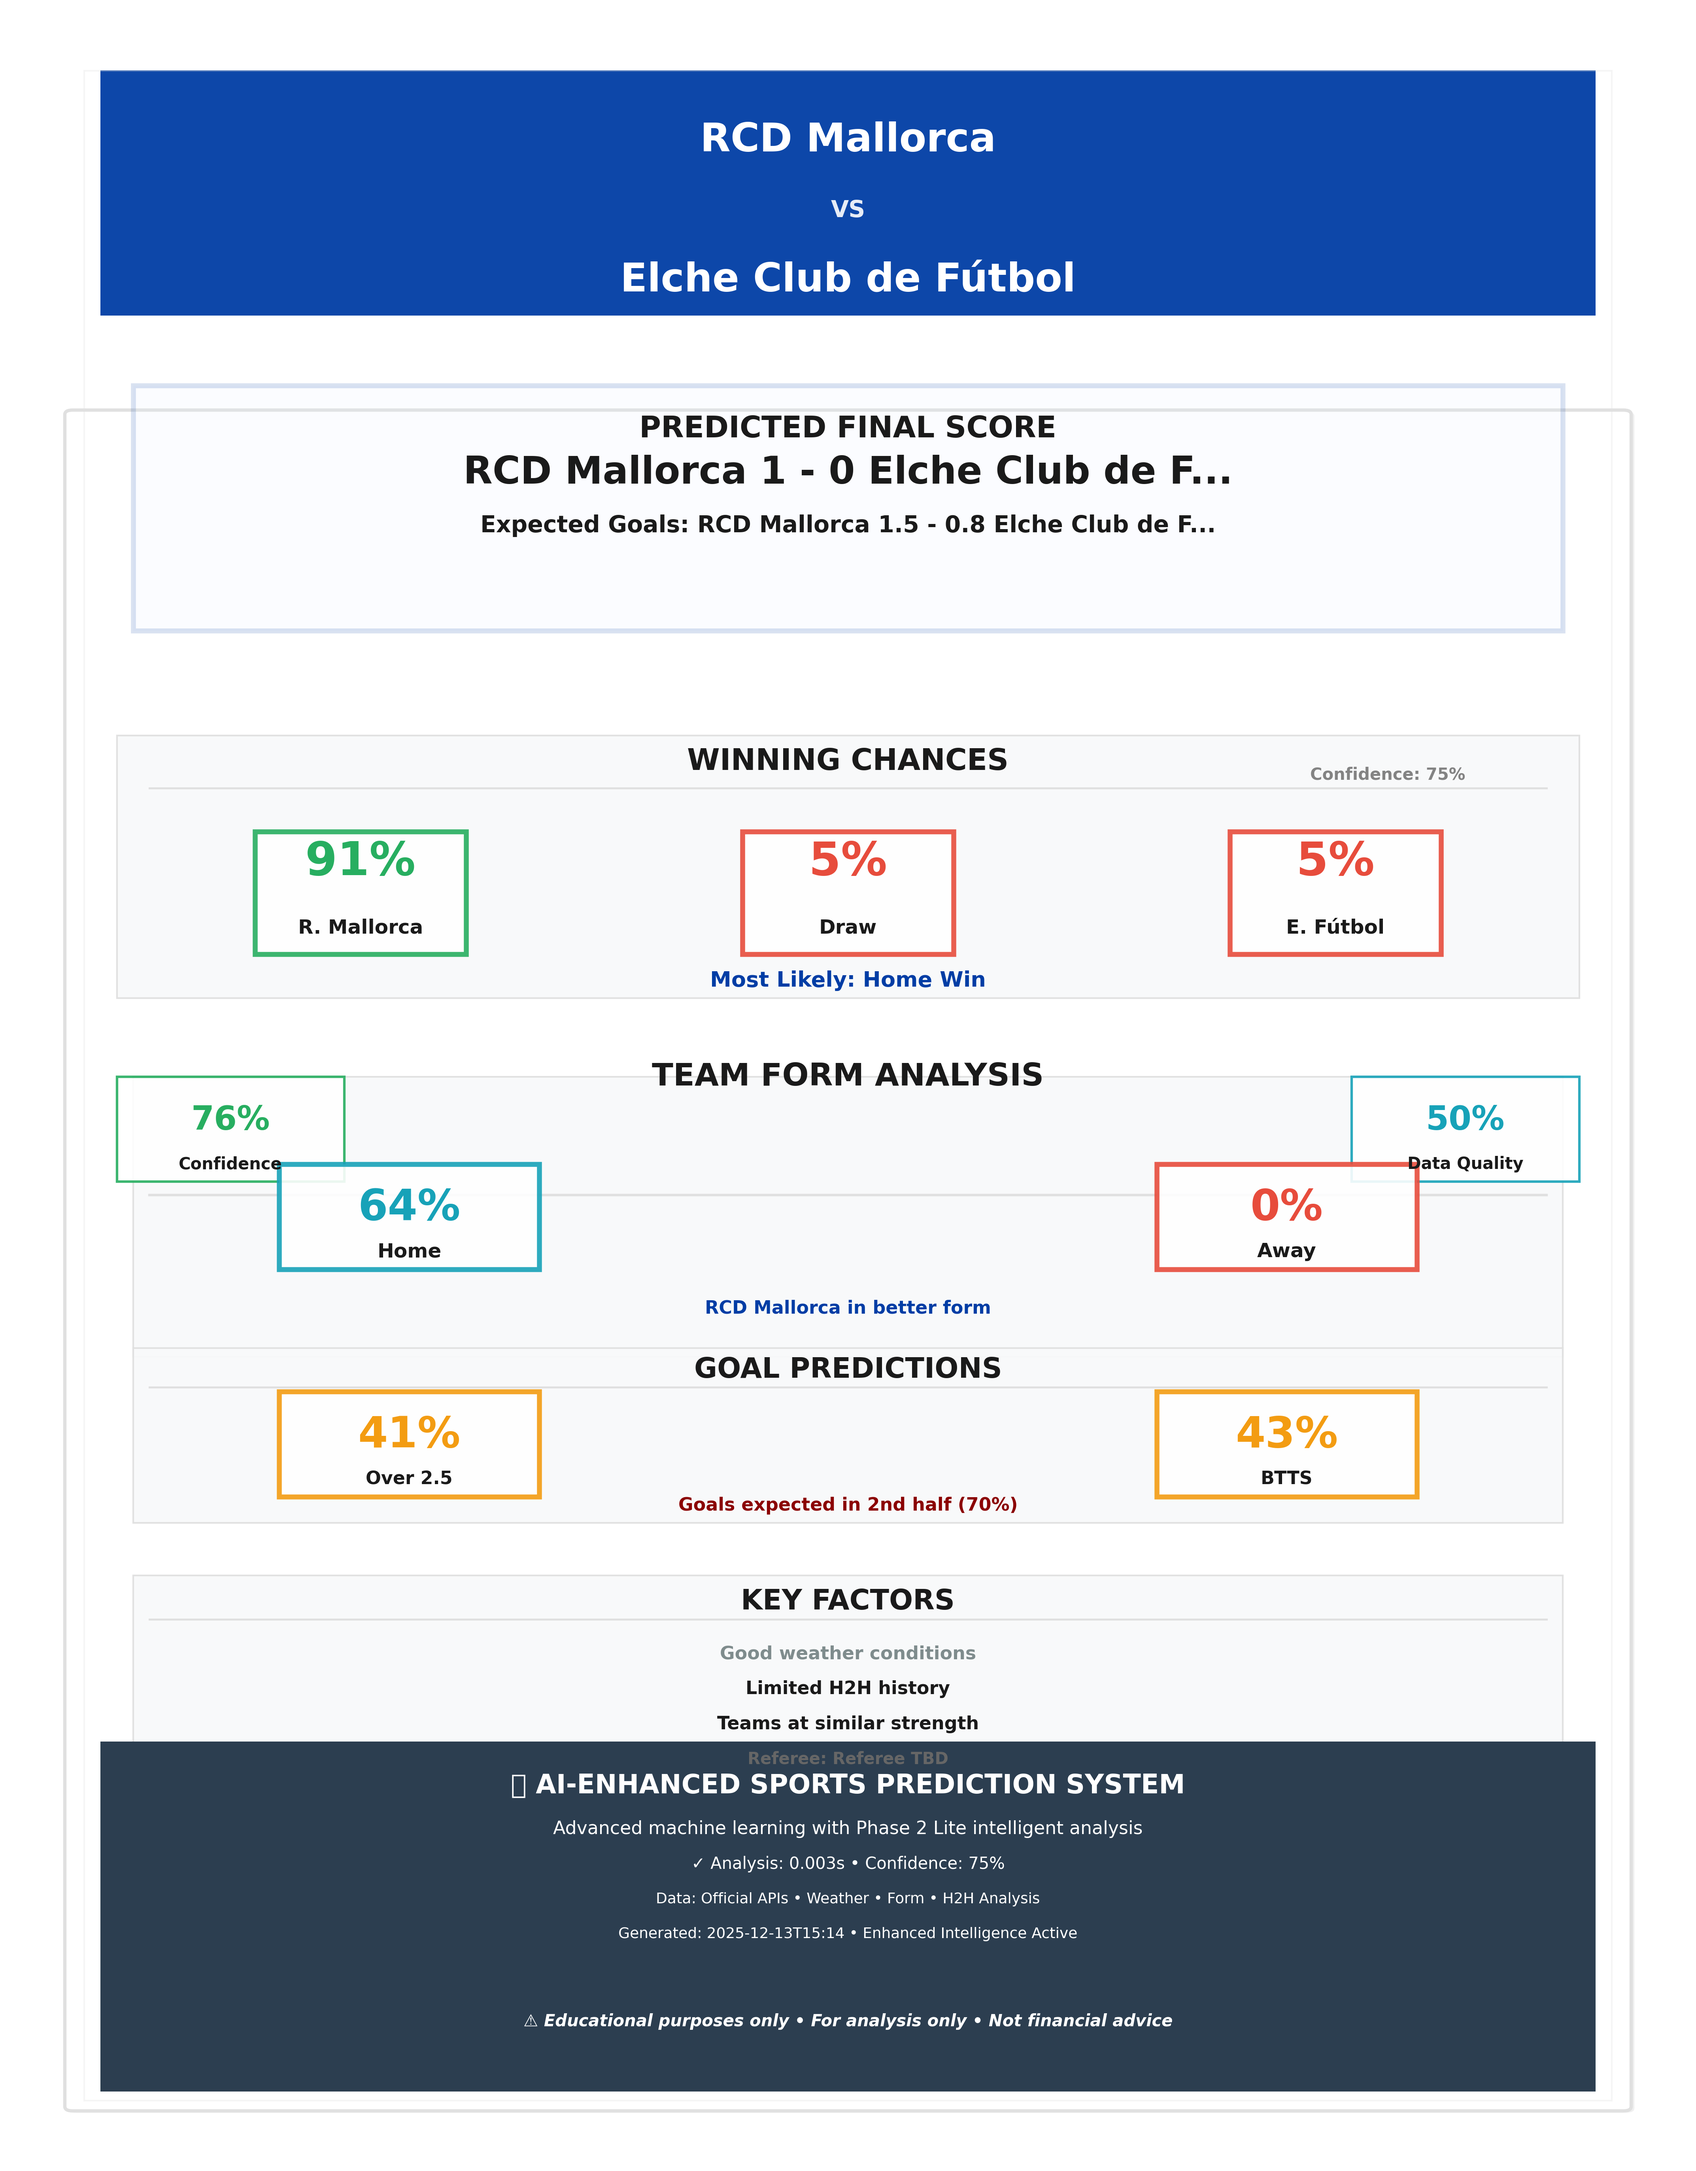
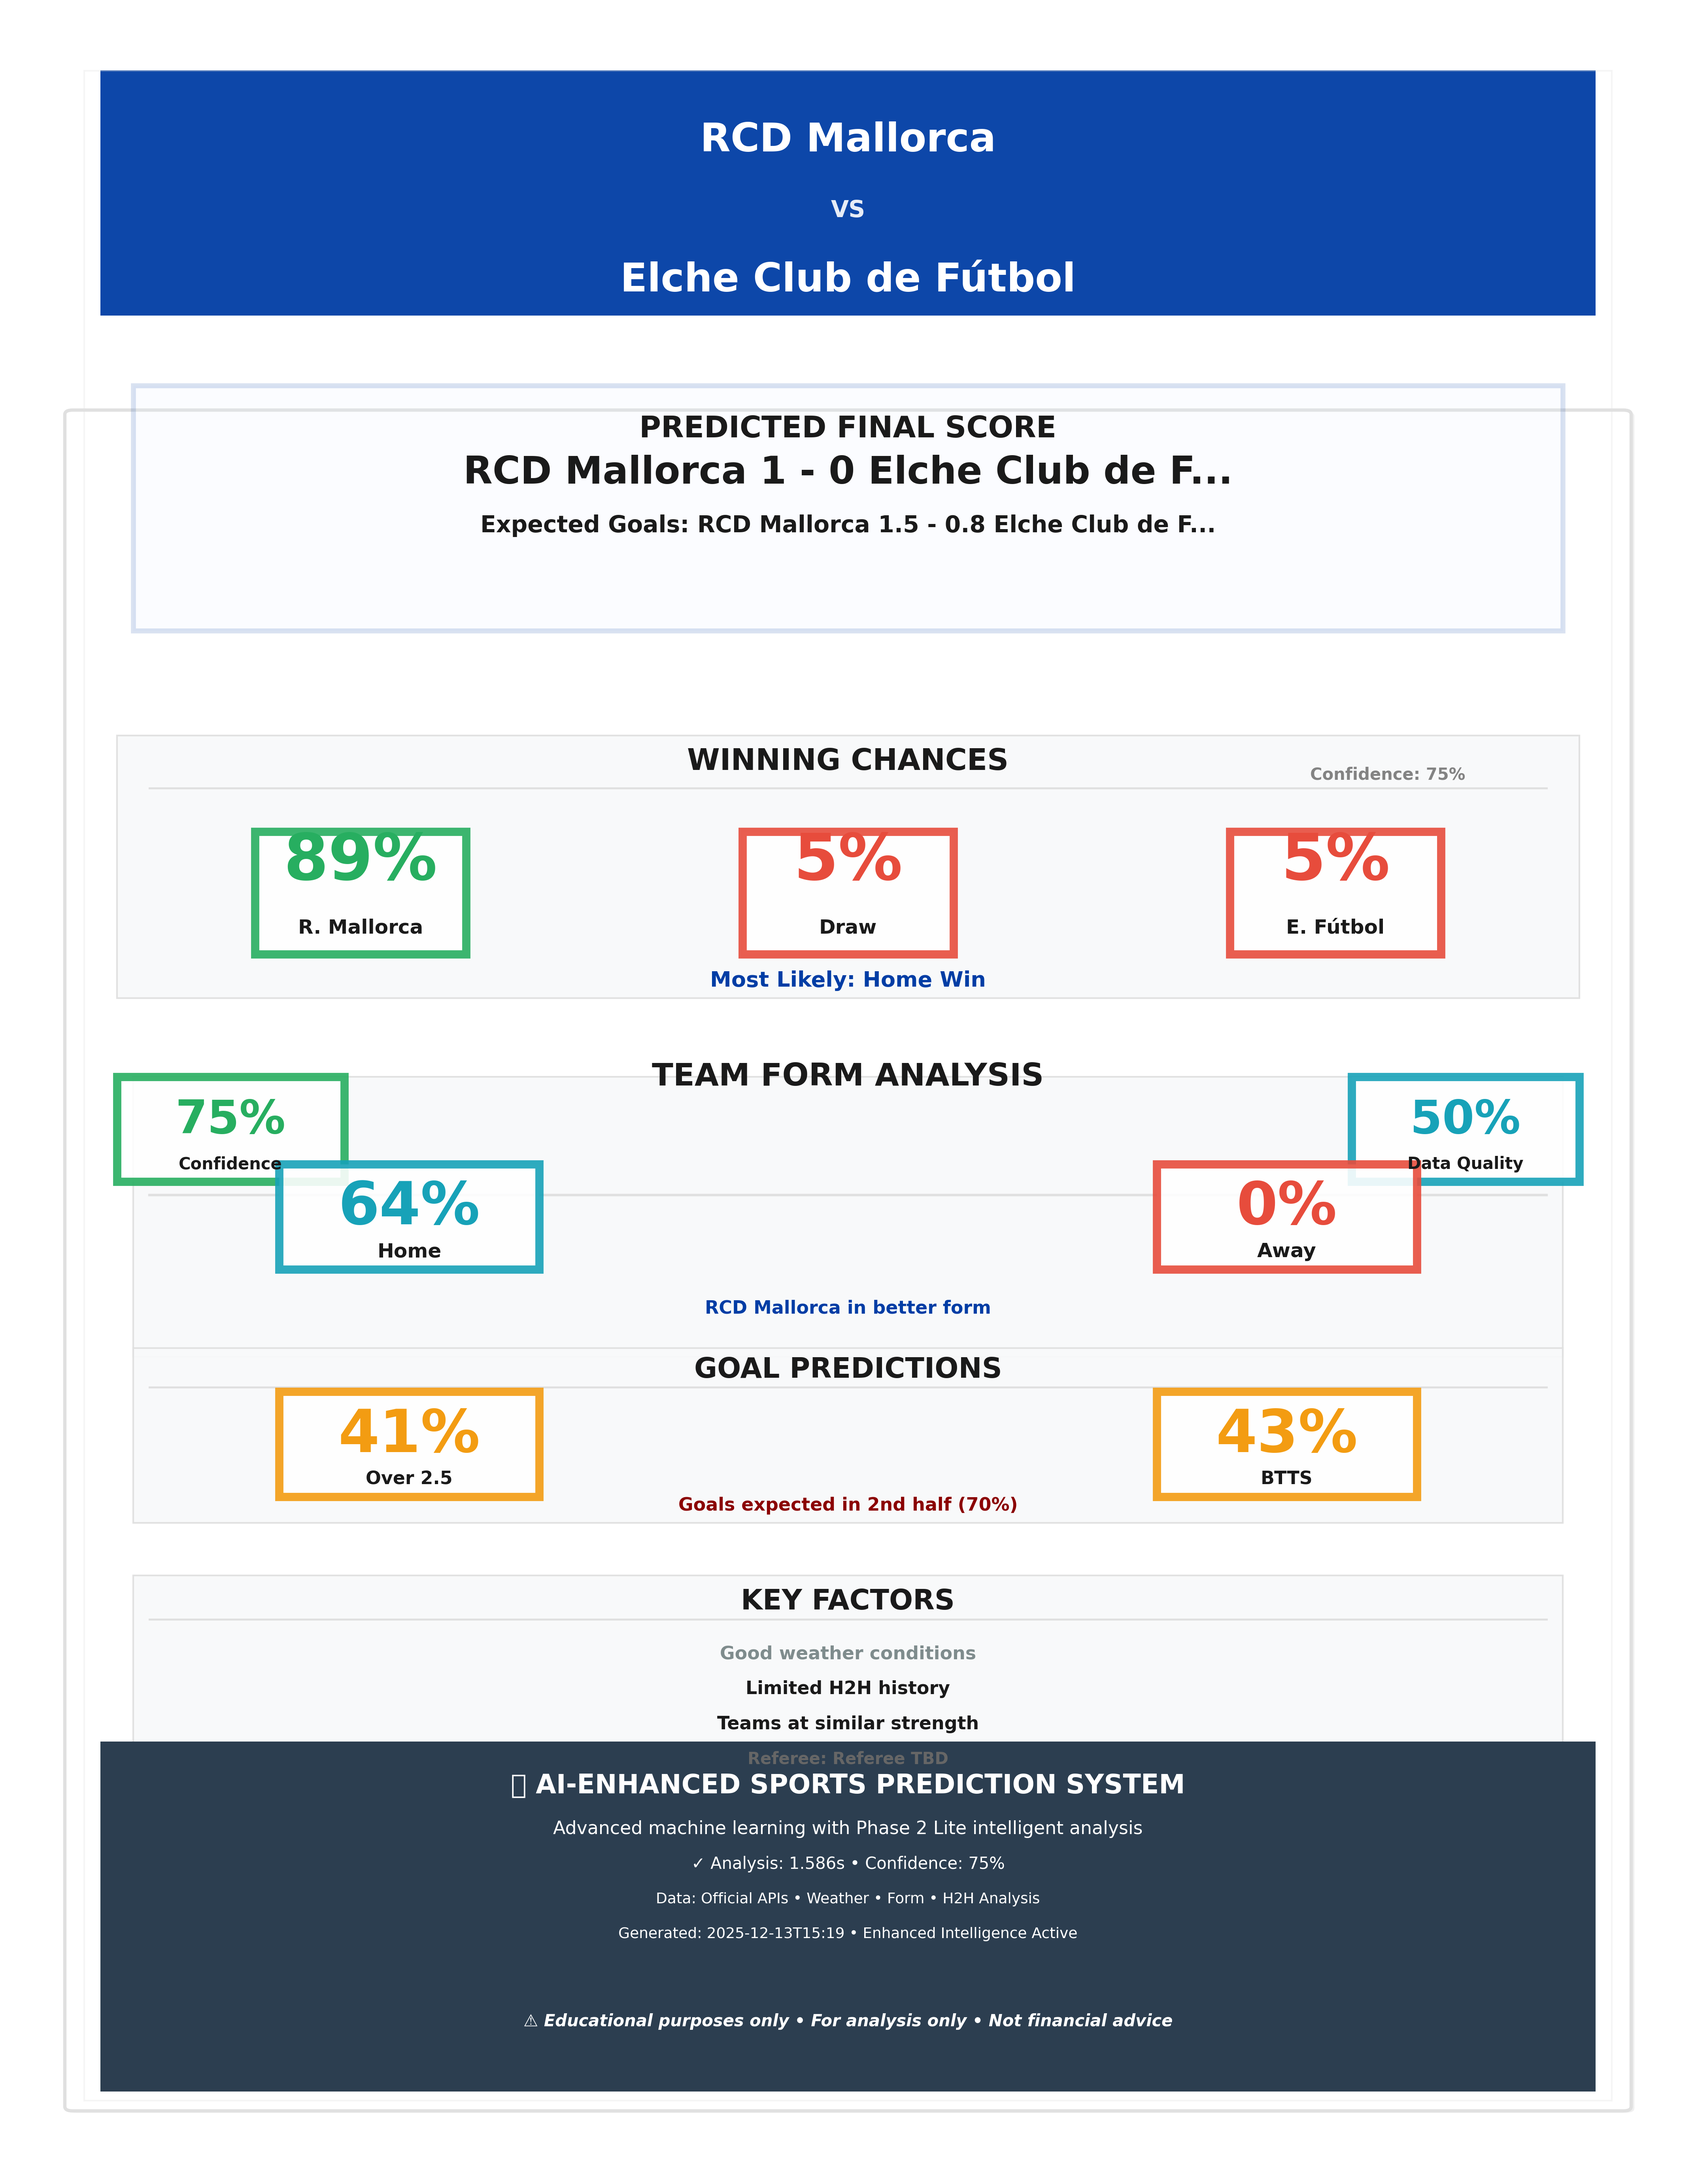
Maximize PNG visual impact: 5px borders on all boxes, increase text sizes by 40% (Confidence/DQ 20->28pt, Winning Chances 28->39pt, Team Form 26->36pt, Goal Predictions 26->36pt)

diff --git a/generate_fast_reports.py b/generate_fast_reports.py
@@ -1392,18 +1392,18 @@ class SingleMatchGenerator:
         
         # Confidence box (left)
         conf_bg = Rectangle((1.2 - 0.7, 10.9), 1.4, 1.2, facecolor='white', 
-                           edgecolor=conf_color, linewidth=1.5, zorder=2, alpha=0.9)
+                           edgecolor=conf_color, linewidth=5.0, zorder=2, alpha=0.9)
         ax.add_patch(conf_bg)
-        ax.text(1.2, 11.6, f"{int(round(confidence))}%", ha='center', va='center', fontsize=20, 
+        ax.text(1.2, 11.6, f"{int(round(confidence))}%", ha='center', va='center', fontsize=28, 
                fontweight='bold', color=conf_color, zorder=3, fontname='DejaVu Sans')
         ax.text(1.2, 11.1, 'Confidence', ha='center', va='center', fontsize=10, 
                color=colors.get('text_main', '#1A1A1A'), fontweight='600', zorder=3, fontname='DejaVu Sans')
         
         # Data Quality box (right)
         dq_bg = Rectangle((8.8 - 0.7, 10.9), 1.4, 1.2, facecolor='white', 
-                         edgecolor=dq_color, linewidth=1.5, zorder=2, alpha=0.9)
+                         edgecolor=dq_color, linewidth=5.0, zorder=2, alpha=0.9)
         ax.add_patch(dq_bg)
-        ax.text(8.8, 11.6, f"{int(round(data_quality))}%", ha='center', va='center', fontsize=20, 
+        ax.text(8.8, 11.6, f"{int(round(data_quality))}%", ha='center', va='center', fontsize=28, 
                fontweight='bold', color=dq_color, zorder=3, fontname='DejaVu Sans')
         ax.text(8.8, 11.1, 'Data Quality', ha='center', va='center', fontsize=10, 
                color=colors.get('text_main', '#1A1A1A'), fontweight='600', zorder=3, fontname='DejaVu Sans')
@@ -1459,13 +1459,13 @@ class SingleMatchGenerator:
         for i in range(3):
             col_x_pos = col_x[i]
             
-            # Column background box with thicker border
+            # Column background box with 5px border
             col_bg = Rectangle((col_x_pos - 0.65, 13.5), 1.3, 1.4, facecolor='white', 
-                             edgecolor=col_colors[i], linewidth=3.0, zorder=2, alpha=0.9)
+                             edgecolor=col_colors[i], linewidth=5.0, zorder=2, alpha=0.9)
             ax.add_patch(col_bg)
             
-            # Larger percentage value (increased from 24 to 28)
-            ax.text(col_x_pos, 14.55, f"{col_values[i]}%", ha='center', va='center', fontsize=28, 
+            # Larger percentage value (28 * 1.4 = 39pt)
+            ax.text(col_x_pos, 14.55, f"{col_values[i]}%", ha='center', va='center', fontsize=39, 
                    fontweight='bold', color=col_colors[i], zorder=3, fontname='DejaVu Sans')
             
             # Team label (slightly larger)
@@ -1517,13 +1517,13 @@ class SingleMatchGenerator:
         for i in range(2):
             col_x_pos = col_x[i]
             
-            # Column background box with thicker border
+            # Column background box with 5px border
             col_bg = Rectangle((col_x_pos - 0.8, 9.9), 1.6, 1.2, facecolor='white', 
-                             edgecolor=col_colors[i], linewidth=3.0, zorder=2, alpha=0.9)
+                             edgecolor=col_colors[i], linewidth=5.0, zorder=2, alpha=0.9)
             ax.add_patch(col_bg)
             
-            # Larger percentage value (increased from 22 to 26)
-            ax.text(col_x_pos, 10.6, f"{col_values[i]}%", ha='center', va='center', fontsize=26, 
+            # Larger percentage value (26 * 1.4 = 36pt)
+            ax.text(col_x_pos, 10.6, f"{col_values[i]}%", ha='center', va='center', fontsize=36, 
                    fontweight='bold', color=col_colors[i], zorder=3, fontname='DejaVu Sans')
             
             # Team label (unchanged, already readable)
@@ -1575,13 +1575,13 @@ class SingleMatchGenerator:
         for i in range(2):
             col_x_pos = col_x[i]
             
-            # Column background box with thicker border
+            # Column background box with 5px border
             col_bg = Rectangle((col_x_pos - 0.8, 7.3), 1.6, 1.2, facecolor='white', 
-                             edgecolor=col_colors[i], linewidth=3.0, zorder=2, alpha=0.9)
+                             edgecolor=col_colors[i], linewidth=5.0, zorder=2, alpha=0.9)
             ax.add_patch(col_bg)
             
-            # Larger percentage value (increased from 22 to 26)
-            ax.text(col_x_pos, 8.0, f"{col_values[i]}%", ha='center', va='center', fontsize=26, 
+            # Larger percentage value (26 * 1.4 = 36pt)
+            ax.text(col_x_pos, 8.0, f"{col_values[i]}%", ha='center', va='center', fontsize=36, 
                    fontweight='bold', color=col_colors[i], zorder=3, fontname='DejaVu Sans')
             
             # Goal prediction label

diff --git a/reports/formats/markdown/rcd-mallorca_vs_elche-club-de-f-tbol_2025-12-13.md b/reports/formats/markdown/rcd-mallorca_vs_elche-club-de-f-tbol_2025-12-13.md
@@ -5,7 +5,7 @@
 - **League:** La Liga
 - **Date & Time:** 2025-12-13 at 15:15
 - **Engine Mode:** Enhanced Intelligence core engine with multi-layer analysis
-- **Prediction Confidence:** **75.5%** (Phase 2 Lite probability of correctness)
+- **Prediction Confidence:** **75.0%** (Phase 2 Lite probability of correctness)
 - **Data Confidence:** 75.0% (75.0% (Good))
 - **Data Quality Score:** 50.0%
 
@@ -41,7 +41,7 @@
 - **Top 3 Scores Combined:** ⭐ **10/10** (38.4%)
 - **Expected Goals:** 1.5 - 0.8
 - **Recommendation:** Home Win Likely
-- **Processing Time:** 0.00s
+- **Processing Time:** 1.59s
 
 ### Score Probability Breakdown
 
@@ -58,9 +58,9 @@
 
 ### Win Probabilities
 
- - **RCD Mallorca Win:** 90.8%
-- **Draw:** 4.6%
-- **Elche Club de Fútbol Win:** 4.6%
+ - **RCD Mallorca Win:** 89.4%
+- **Draw:** 5.3%
+- **Elche Club de Fútbol Win:** 5.3%
 
 ## 🔍 Intelligence Analysis
 
@@ -189,14 +189,14 @@
 ## ⚠ Risk Assessment
 
 - **Overall Risk Level:** 🟡 MEDIUM RISK
-- **Data Reliability:** 🟠 Limited (60.7)
+- **Data Reliability:** 🔴 Low (57.7)
 - **Prediction Stability:** Stable
 
 ## 🎯 Confidence Analysis
 
-- **Reliability Score:** 🟠 Limited 60.7 – Limited reliability – supplement with manual review.
-- **Confidence Interval Window:** Home 95.3% – 100.0%, Draw 0.0% – 4.7%, Away 0.0% – 4.7%
-- **Calibration Adjustment:** Applied 13.8% shrink toward neutral due to reliability score 60.7. | Accuracy 60.6% → 60.6%
+- **Reliability Score:** 🔴 Low 57.7 – Low reliability – informational use only.
+- **Confidence Interval Window:** Home 94.9% – 100.0%, Draw 0.0% – 5.1%, Away 0.0% – 5.1%
+- **Calibration Adjustment:** Applied 15.9% shrink toward neutral due to reliability score 57.7. | Accuracy 60.6% → 59.4%
 - **Head-to-Head Data Availability:** ⚠ Limited
 - **Recent Form Data:** ⚠ Limited
 - **Enhanced Data Integration:** ⚠ Partial Data
@@ -219,7 +219,7 @@
 - **Prediction Algorithm:** Enhanced Intelligence with 7 Analysis Layers
 - **Data Sources:** Football-Data.org API + Weather API + Referee Database + News Analysis
 - **Analysis Layers:** H2H History, Home/Away Performance, Goal Timing, Player Injuries, Weather, Referee, Team News
-- **Generated:** 2025-12-13T15:14:36.627843
+- **Generated:** 2025-12-13T15:19:56.586007
 
 ---
 

diff --git a/reports/leagues/la-liga/matches/rcd-mallorca_vs_elche-club-de-f-tbol_2025-12-13/summary.md b/reports/leagues/la-liga/matches/rcd-mallorca_vs_elche-club-de-f-tbol_2025-12-13/summary.md
@@ -5,7 +5,7 @@
 - **League:** La Liga
 - **Date & Time:** 2025-12-13 at 15:15
 - **Engine Mode:** Enhanced Intelligence core engine with multi-layer analysis
-- **Prediction Confidence:** **75.5%** (Phase 2 Lite probability of correctness)
+- **Prediction Confidence:** **75.0%** (Phase 2 Lite probability of correctness)
 - **Data Confidence:** 75.0% (75.0% (Good))
 - **Data Quality Score:** 50.0%
 
@@ -41,7 +41,7 @@
 - **Top 3 Scores Combined:** ⭐ **10/10** (38.4%)
 - **Expected Goals:** 1.5 - 0.8
 - **Recommendation:** Home Win Likely
-- **Processing Time:** 0.00s
+- **Processing Time:** 1.59s
 
 ### Score Probability Breakdown
 
@@ -58,9 +58,9 @@
 
 ### Win Probabilities
 
- - **RCD Mallorca Win:** 90.8%
-- **Draw:** 4.6%
-- **Elche Club de Fútbol Win:** 4.6%
+ - **RCD Mallorca Win:** 89.4%
+- **Draw:** 5.3%
+- **Elche Club de Fútbol Win:** 5.3%
 
 ## 🔍 Intelligence Analysis
 
@@ -189,14 +189,14 @@
 ## ⚠ Risk Assessment
 
 - **Overall Risk Level:** 🟡 MEDIUM RISK
-- **Data Reliability:** 🟠 Limited (60.7)
+- **Data Reliability:** 🔴 Low (57.7)
 - **Prediction Stability:** Stable
 
 ## 🎯 Confidence Analysis
 
-- **Reliability Score:** 🟠 Limited 60.7 – Limited reliability – supplement with manual review.
-- **Confidence Interval Window:** Home 95.3% – 100.0%, Draw 0.0% – 4.7%, Away 0.0% – 4.7%
-- **Calibration Adjustment:** Applied 13.8% shrink toward neutral due to reliability score 60.7. | Accuracy 60.6% → 60.6%
+- **Reliability Score:** 🔴 Low 57.7 – Low reliability – informational use only.
+- **Confidence Interval Window:** Home 94.9% – 100.0%, Draw 0.0% – 5.1%, Away 0.0% – 5.1%
+- **Calibration Adjustment:** Applied 15.9% shrink toward neutral due to reliability score 57.7. | Accuracy 60.6% → 59.4%
 - **Head-to-Head Data Availability:** ⚠ Limited
 - **Recent Form Data:** ⚠ Limited
 - **Enhanced Data Integration:** ⚠ Partial Data
@@ -219,7 +219,7 @@
 - **Prediction Algorithm:** Enhanced Intelligence with 7 Analysis Layers
 - **Data Sources:** Football-Data.org API + Weather API + Referee Database + News Analysis
 - **Analysis Layers:** H2H History, Home/Away Performance, Goal Timing, Player Injuries, Weather, Referee, Team News
-- **Generated:** 2025-12-13T15:14:36.627843
+- **Generated:** 2025-12-13T15:19:56.586007
 
 ---
 
